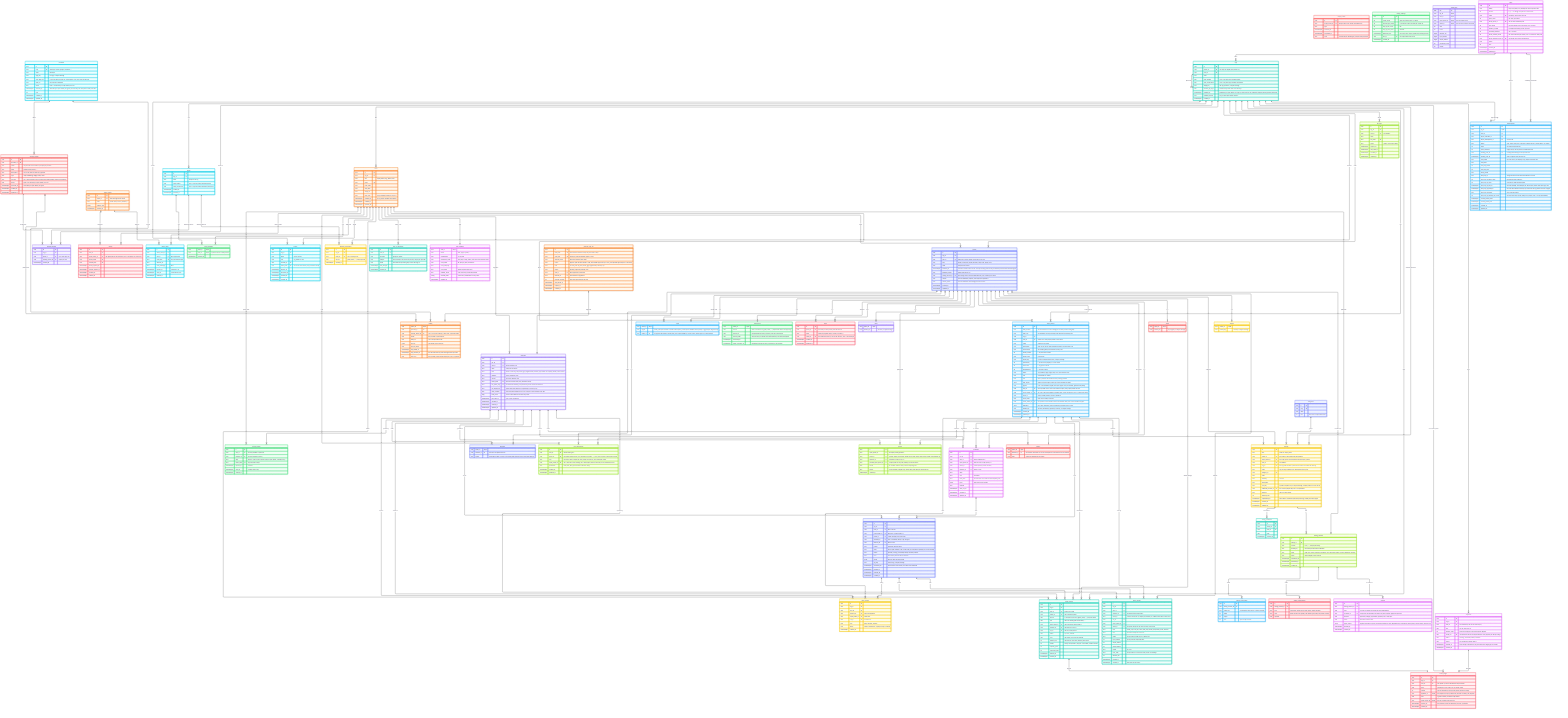
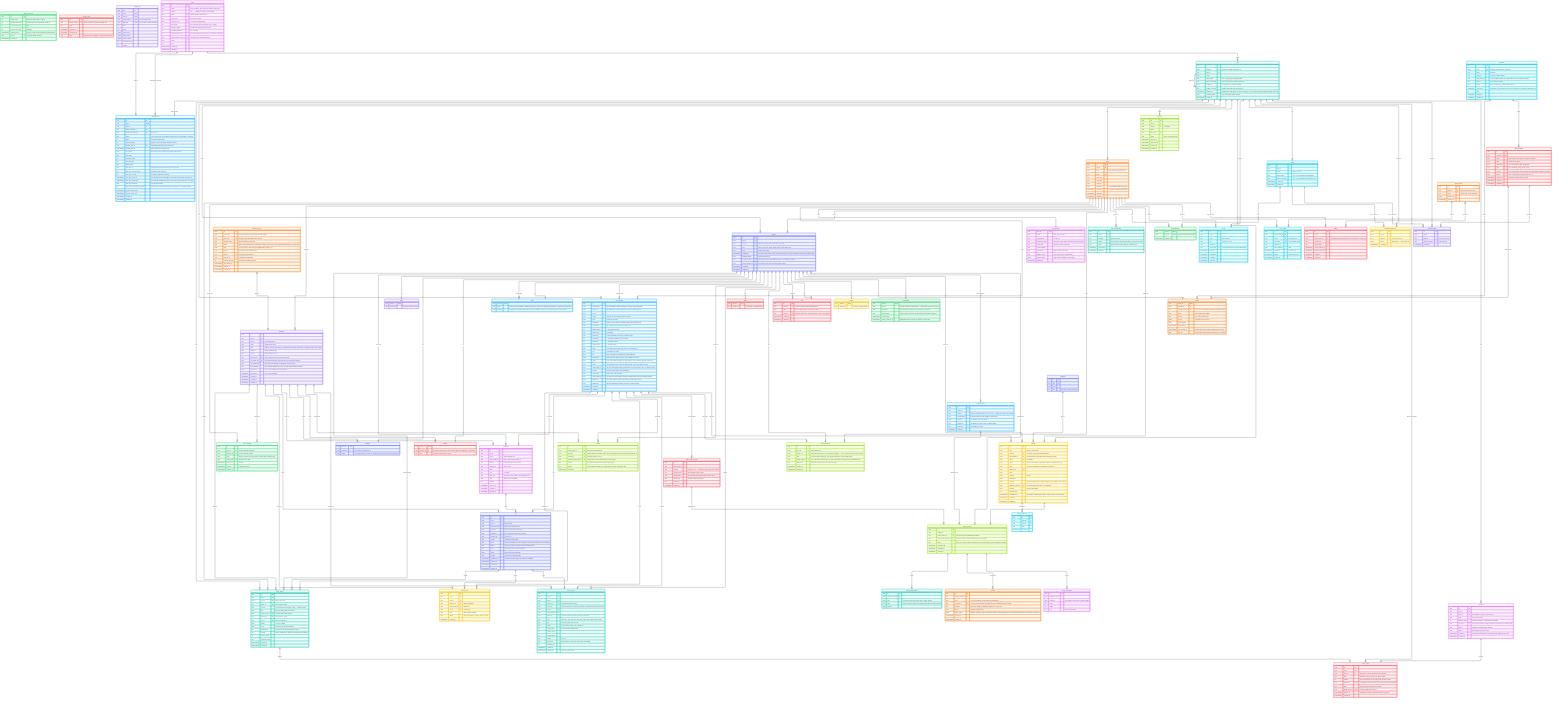
Versions and release notes in the server's database: power_versions and super_power_versions (explicit version from the manifest, release notes, the manifest or configuration and the bundle frozen, never reused); a power points at its current version; a listing version is one of them

diff --git a/server/docs/architecture.md b/server/docs/architecture.md
@@ -496,8 +496,7 @@ erDiagram
         timestamptz disabled_at "set while a limit leaves it out: it stops working and can only be deleted; cleared when allowed again"
         text disabled_reason "which limit left it out"
         uuid listing_version_id FK "the listing version it was installed from; null = made by its owner"
-        text version "from its manifest; explicit, and required to publish it"
-        text version_notes "from its manifest: what changed in this version"
+        uuid current_version_id FK "the version in use now; null until its first version"
         timestamptz created_at
         timestamptz updated_at
     }
@@ -947,6 +946,10 @@ erDiagram
     super_powers |o--o{ listings : "listed as"
     categories ||--o{ listings : "groups"
     listings ||--o{ listing_versions : "has"
+    powers ||--o{ power_versions : "is released as"
+    super_powers ||--o{ super_power_versions : "is released as"
+    power_versions ||--o{ listing_versions : "submitted as"
+    super_power_versions ||--o{ listing_versions : "submitted as"
     listing_versions ||--o{ listing_screenshots : "shows"
     listing_versions ||--o{ listing_requirements : "needs"
     listing_versions ||--o{ reviews : "reviewed in"
@@ -981,13 +984,34 @@ erDiagram
         timestamptz updated_at
     }
 
+    power_versions {
+        uuid id PK
+        uuid power_id FK
+        text version "from the manifest, explicit: 1.0.0, 1.1.0, ...; unique per power, never reused"
+        text release_notes "from the manifest: what changed in this version"
+        jsonb manifest "the manifest as it was, frozen"
+        text bundle_key "the bundle as it was, frozen, in object storage"
+        uuid created_by FK "who made the version"
+        timestamptz created_at
+    }
+
+    super_power_versions {
+        uuid id PK
+        uuid super_power_id FK
+        text version "explicit: 1.0.0, ...; unique per super power, never reused"
+        text release_notes "what changed in this version"
+        jsonb configuration "its configuration and grants as they were, frozen"
+        text bundle_key "its files as they were, frozen"
+        uuid created_by FK
+        timestamptz created_at
+    }
+
     listing_versions {
         uuid id PK
         uuid listing_id FK
-        text version "1.0.0, ...; unique per listing"
-        text bundle_key "the bundle, frozen when submitted"
+        uuid power_version_id FK "the power version submitted (kind power)"
+        uuid super_power_version_id FK "the super power version submitted (kind super_power)"
         text state "draft, org_review, changes_requested, org_approved, glyphh_review, published, rejected"
-        text notes "what changed in this version"
         timestamptz submitted_at
         timestamptz published_at
         timestamptz created_at
@@ -1134,7 +1158,7 @@ Every power is a row in `powers` (who owns it, its kind and name), and one row i
 - **A connection** is a user's own account at Pipedream: the service it connects to (Gmail, Slack, ...) and the account id. Pipedream calls a service an app; Glyphh says service, because an app is something else here. Glyphh stores no sign-in for it: Pipedream holds the account and its tokens, under the Glyphh user's id as Pipedream's external user id. Linking one: the server asks Pipedream for a connect token for that user, and Pipedream's own page does the sign-in. Using one: the loop reaches Pipedream's MCP server (`remote.mcp.pipedream.net/v3`) with the Pipedream project, environment, service (`x-pd-app-slug`) and the user's id as headers, and a short-lived Pipedream access token the server mints for the run (Glyphh's Pipedream client credentials never leave the server). Only Glyphh's connections are used: a super power's loop gets exactly its connections, nothing of the loop's own.
 - **A folder** is a path on one machine (`machine_id`): the same path on two machines is two folders, and a folder grant says read or write.
 - **A browser** is a browser profile on one rrotor: its cookies and signed-in sessions live there and never leave that machine or reach the server. It is granted like a folder, so one super power's signed-in sites are never another's.
-- **Skills, tasks and plugins** are bundles of files in object storage (`bundle_key`). **Versions are explicit, for published powers** (2026-10-11): the manifest carries the version and its notes, and a listing version is that manifest's version.
+- **Skills, tasks and plugins** are bundles of files in object storage (`bundle_key`). **Versions are explicit, for published powers** (2026-10-11): the manifest carries the version and its release notes, and making a version freezes it as a `power_versions` row (version, release notes, the manifest and the bundle as they were). A version number is never reused. A super power's versions are `super_power_versions` the same way, its configuration and grants frozen. What is listed and reviewed is one of these versions (`listing_versions`), and an install points at the version it came from.
 - **A secret** (a key, a sign-in) is encrypted at rest, never returned after it is saved, and handed only to the member's own runtime when a super power runs.
 - **The catalog** is what the platform and its cards show when someone picks a model, and where every model's logo comes from: `providers` (each with its name and logo) and `catalog_models` (each provider's models, with a name, a description and a type). Every entry shows the provider's logo, the provider, the model's name, its description and its type. It is Glyphh's reference data, the same for every org: anyone signed in reads it, only super admins change it. **A super admin adds, edits, turns off and removes providers and models** (his rule, 2026-10-11). Turning one off (`active = false`) is for now: members can't add it, and their powers on it are disabled with the reason, the same way an org's limits work, and come back when it is turned on again. Removing one (`removed_at`) is for good: it leaves the catalog, and the powers on it are disabled with the reason and can only be deleted. A provider whose mark is black has a second logo for dark grounds. It starts from the old server's list (about 3,900 models across about 125 providers) and its 143 provider logos, kept in object storage. It holds no prices, rates or limits.
 - **A model power** points at its provider (always) and at the catalog entry it was picked from (when there is one), so it shows that logo and name wherever it appears. A model the catalog does not have (a fine-tune, a private model) is still added, by its provider and model id, and wears the provider's logo.
